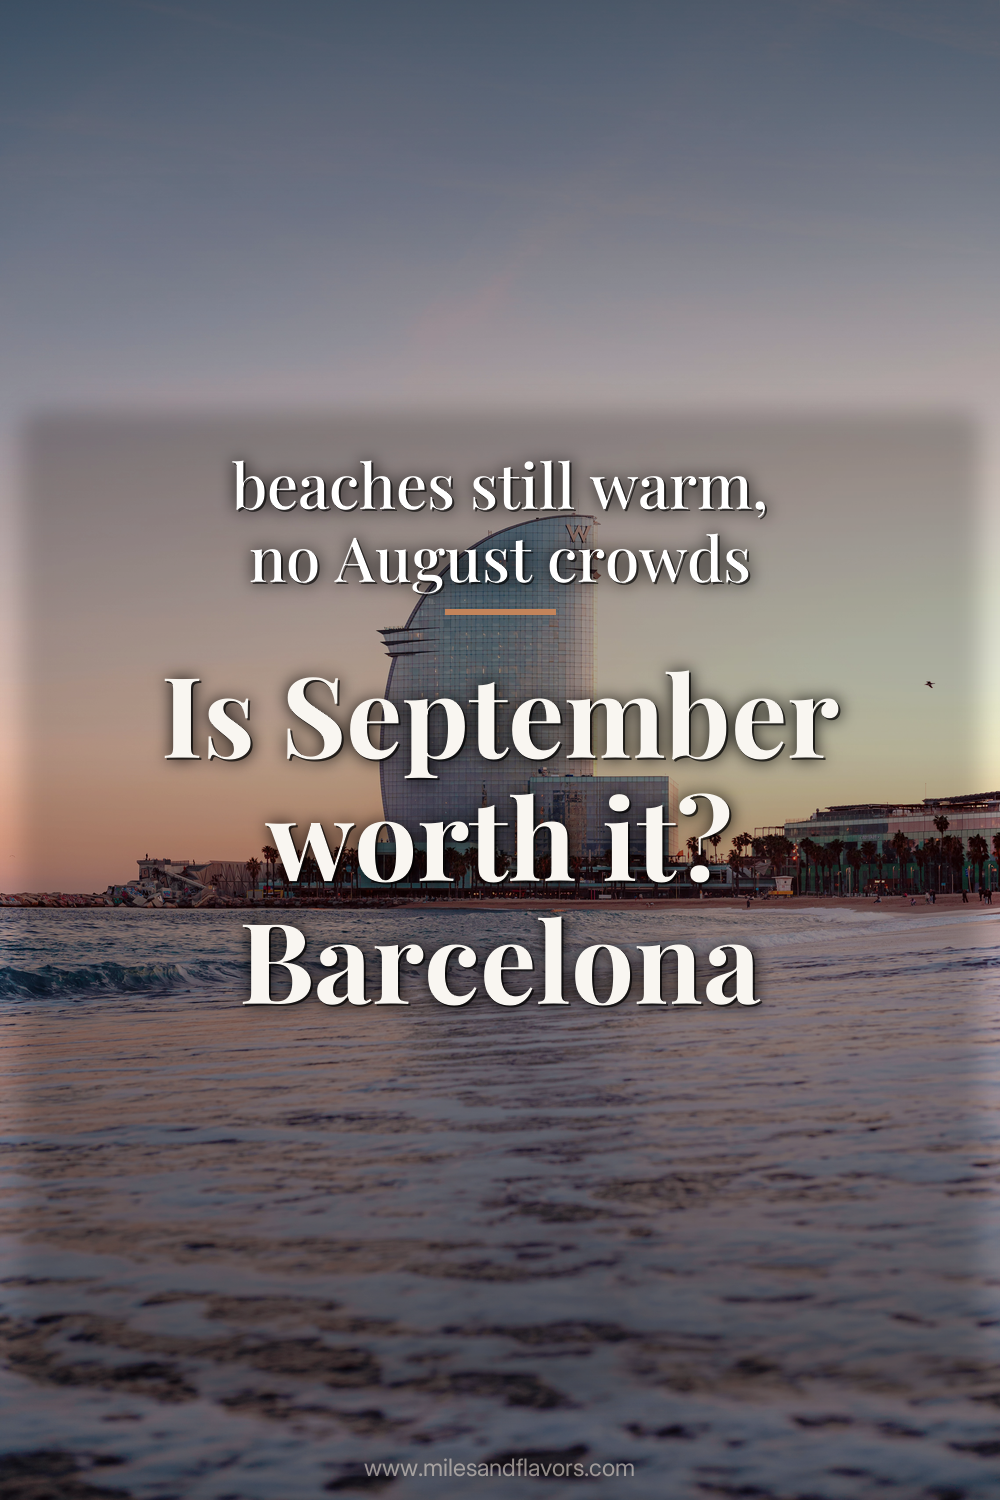
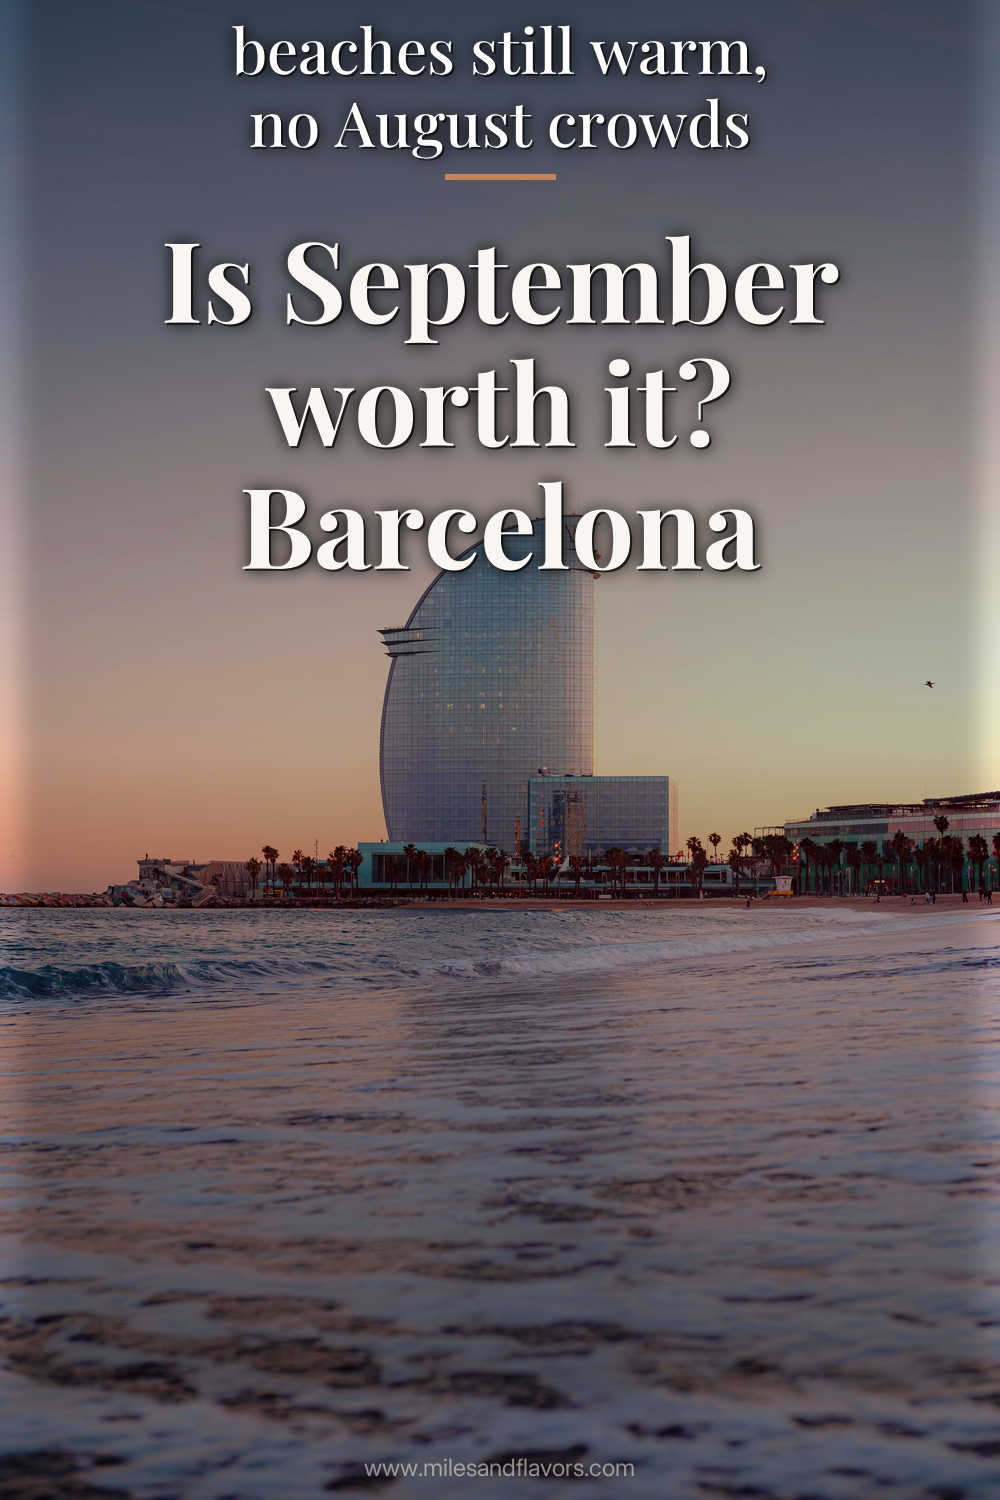
Add +18% vibrance boost to render pipeline; fix 2 Centered pins to bottom
User-confirmed: photos looked too muted/dark, wanted a more vivid filter
rather than just brightness. ImageEnhance.Color(1.18) applied to all
photos before overlay/gradient. Also changed Chicago in September and
NYC Family Itinerary from Centered to explicit bottom placement per
user preference. Re-rendered all 11 currently-unposted pins (2026.08.02
20:00 through 2026.08.03 23:37) with the new pipeline.

diff --git a/render.py b/render.py
@@ -280,6 +280,7 @@ def render_hybrid_pin(bold, light, photos, zone_override=None, overlay_alpha=90,
     raw_photo = cover(photos[0], W, H)
     if brightness != 1.0:
         raw_photo = ImageEnhance.Brightness(raw_photo).enhance(brightness)
+    raw_photo = ImageEnhance.Color(raw_photo).enhance(1.18)  # vibrance boost (user-confirmed 2026-08-03)
     base.paste(raw_photo, (0, 0))
 
     # 2. Szöveg zóna: ha van Template override, azt használjuk; különben auto-detect
